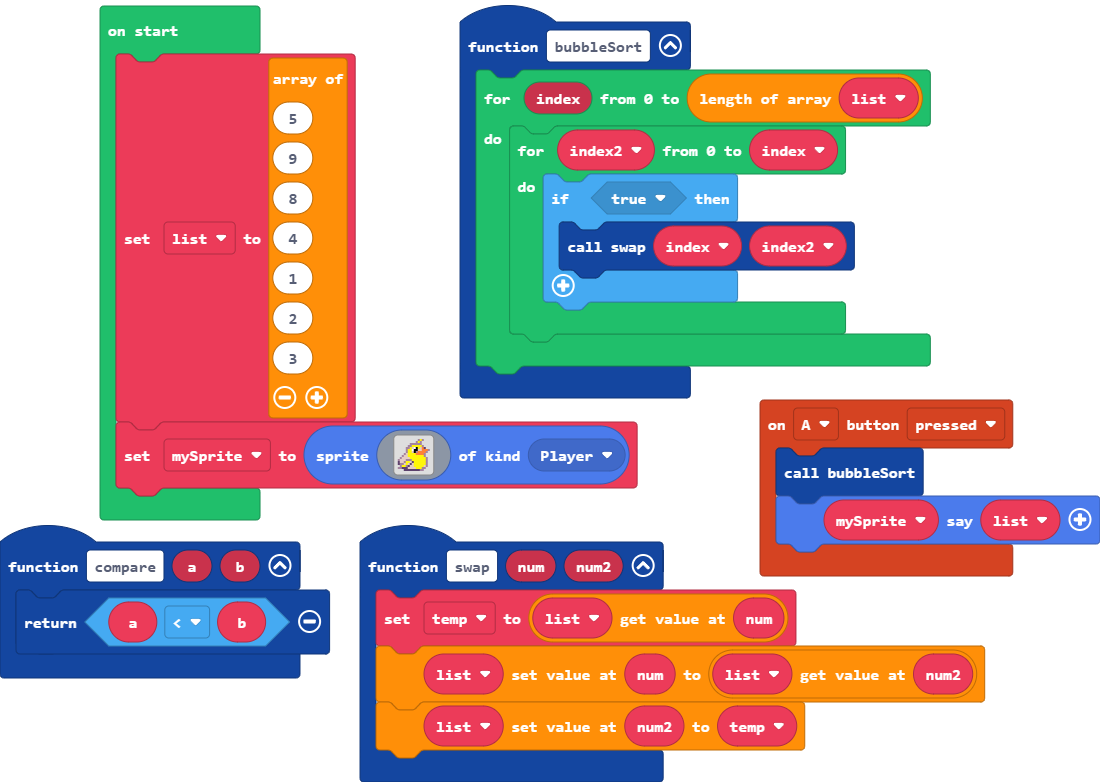
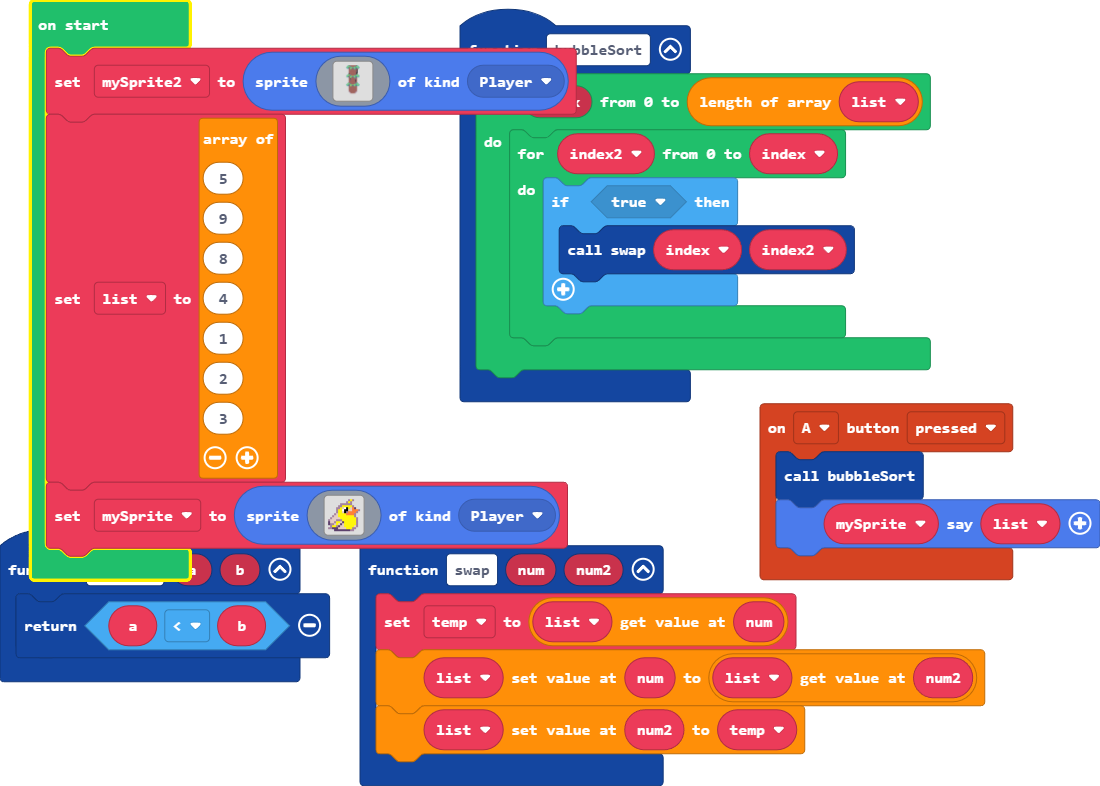
Update main.blocks, main.ts

diff --git a/main.ts b/main.ts
@@ -22,6 +22,56 @@ function bubbleSort () {
 let temp = 0
 let mySprite: Sprite = null
 let list: number[] = []
+let mySprite2 = sprites.create(img`
+    .....6feeeeeeeeeef6.....
+    ....6776eeeeeeeee676....
+    ...6777666eeee6667776...
+    ..6776ee67777777667776..
+    ...668ee7768867788666...
+    ......ee77eeee67eeee....
+    ......ee6eeeeee6cef.....
+    ......eeeeeeeeeeeef.....
+    ......eeeeeeeeeeeef.....
+    ......eeeeeeeeeeecf.....
+    ......eeeeeeeeeeecf.....
+    ......eeeeeeeeeeeff.....
+    ......feeeeeeeeeefe.....
+    .....6feeeeeeeeeef6.....
+    ....6776eeeeeeeee676....
+    ...6777666eeee6667776...
+    ..6776ee67777777667776..
+    ...668ee7768867788666...
+    ......ee77eeee67ee......
+    ......ee6eeeeee6ce......
+    ......eefeeeeeeece......
+    ......eeceeeeeeece......
+    ......eeceeeeeeefe......
+    ......eeceeeeeeefe......
+    ......eeeeeeeeeefe......
+    ......eeeeeeeeeece......
+    .....6eeeeeeeeeece6.....
+    ....6776eeeeeeeee676....
+    ...6776666eeee6766776...
+    ..6776ee77777777667776..
+    ...668ce7768867788666...
+    ......ce77eeee67ee......
+    ......eeeeeeeeeeee......
+    ......eeeeeeeeeeee......
+    ......eeeeeeeeeeee......
+    ......eeeeeeeeeeee......
+    ......eeeeeeeeeeee......
+    ......eeeeeeeeeeee......
+    ......eeeeeeeeeeee......
+    ......beeeeeeeeeeb......
+    .......beeeeeeeeb.......
+    ........beeeeeeb........
+    ........................
+    ........................
+    ........................
+    ........................
+    ........................
+    ........................
+    `, SpriteKind.Player)
 list = [
 5,
 9,
